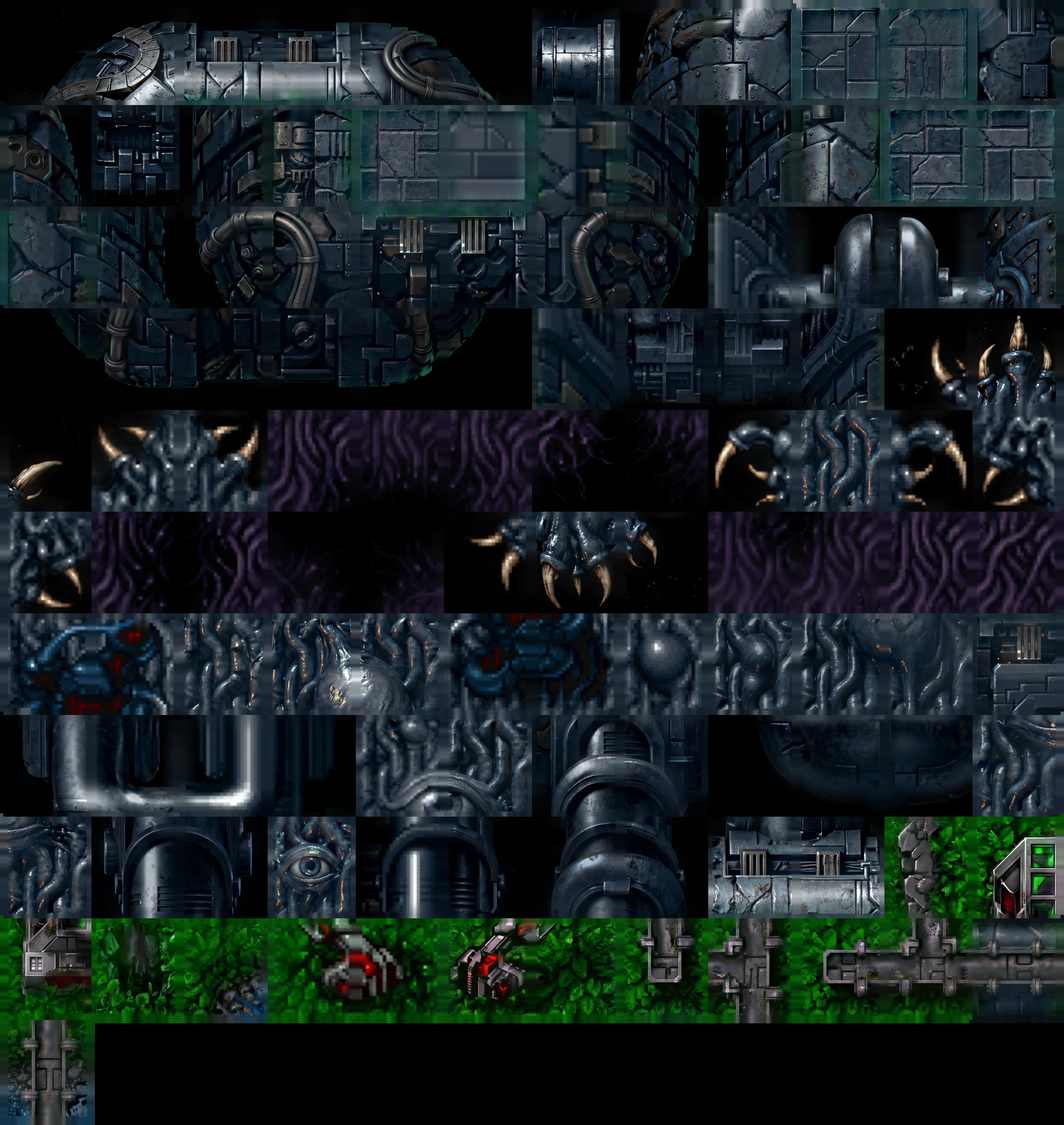
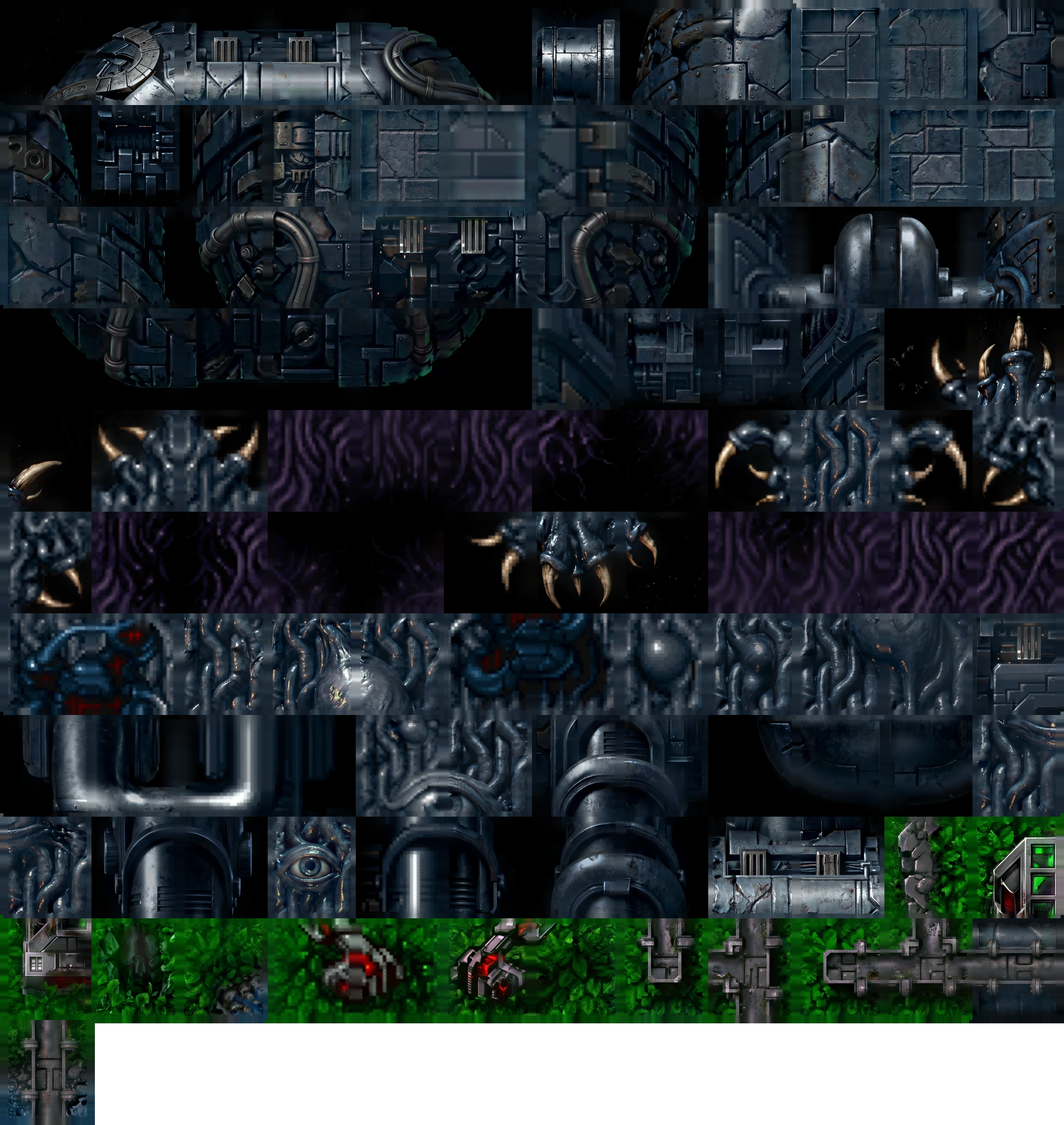
D113: take the teal rim off shapesx's blue-grey plating tiles (terrain_hd.py rimfix)
The 2-6 green tint and 2-10 halo were in the atlas, not the shader: the cut's seam strips
gave every plating tile a greener ring. fix_rim lowers the rim's green to the plating's ratio.

Claude-Session: https://claude.ai/code/session_01Tt7ZcrN2zwvXKGRkJHtp1H

Changed region(s): [[0.0621, 0.9062, 1.0, 1.0]]

diff --git a/tools/terrain_hd.py b/tools/terrain_hd.py
@@ -51,6 +51,7 @@ shared by many levels (shapesz by 32), so every command takes a list of levels o
         a weak pull towards the tile's own painting, and each tile's border is moved onto its strips
         (the difference fades in over 40 texels, the outer 4 texels are the strip); --edge-aware leaves
         strips untied where the original has a real edge between the tiles.
+        `rimfix <tileset>` then takes the teal ring off blue-grey plating tiles (fix_rim, D113).
         The cut MERGES into the tileset's atlas (D83): every tile it already has is kept as it is (its
         image file untouched, its rect unchanged) and its strips are held, so the new tiles are solved
         against them; the new tiles are packed (16-aligned rects, 16 px edge-extended gutters) into new
@@ -1828,6 +1829,69 @@ def cmd_realpha(args) -> None:
             print(f"layer {layer}: alpha redone for {sum(n in done for n in ns)} tiles -> {out_dir / name}")
 
 
+RIM_FULL = 12  # texels at a tile's edge the rim correction applies to in full...
+RIM_FADE = 12  # ...and the texels it then fades out over
+RIM_RHO = 0.58  # where a blue-grey hull's green sits between its red and its blue (measured on the plating)
+
+
+def fix_rim(tile: np.ndarray, full: int = RIM_FULL, fade: int = RIM_FADE, rho: float = RIM_RHO) -> tuple[np.ndarray, float]:
+    """A teal rim off a blue-grey tile (D113). The cut's seam strips take the colours of the original's
+    edge pixels, a lighter cyan, so a tile of blue-grey plating comes out with a teal ring round it
+    (the rim is a stripe of the tile's own edge texels, where the plating's green sits at 0.8 of the
+    way from red to blue against 0.58 inside). Within `full` texels of the edge, fading over `fade`
+    more, the green is lowered to the plating's own ratio where it is above it; red and blue stay, so
+    the rim keeps its brightness. The same colour function everywhere, so two tiles whose edge
+    colours were one still meet in one. Returns (tile, the largest green change); a tile whose
+    interior isn't blue-leaning (jungle, rock, water) comes back as it was."""
+    h, w = tile.shape[:2]
+    inner = tile[24:h - 24, 24:w - 24, :3].reshape(-1, 3).mean(0)
+    if not inner[2] > inner[1] + 3 > inner[0] + 3:  # blue over green over red: plating
+        return tile, 0.0
+    yy, xx = np.mgrid[:h, :w]
+    depth = np.minimum(np.minimum(xx, w - 1 - xx), np.minimum(yy, h - 1 - yy)).astype(np.float32)
+    weight = np.clip(1 - (depth - full) / fade, 0, 1)
+    r, g, b = tile[..., 0], tile[..., 1], tile[..., 2]
+    target = r + rho * (b - r)
+    drop = weight * np.where(b > r, np.maximum(g - target, 0), 0)
+    out = tile.copy()
+    out[..., 1] = g - drop
+    return out, float(drop.max())
+
+
+def cmd_rimfix(args) -> None:
+    """Take the teal rim (fix_rim) off the blue-grey ground tiles of an atlas, in place: layer 0's
+    images are re-encoded at the same layout (quality 92 unless --lossless); the manifest is
+    untouched. --dry-run lists the tiles it would change."""
+    out_dir = Path(args.out) / args.tileset
+    man, atlas = load_tileset_art(out_dir)
+    if man is None:
+        raise SystemExit(f"no atlas in {out_dir}")
+    tiles = atlas.get(0, {})
+    lay = man["layers"]["0"]
+    done = {}
+    for n, t in sorted(tiles.items()):
+        fixed, change = fix_rim(t)
+        if change > 0.5:
+            done[n] = fixed
+    print(f"layer 0: {len(done)} of {len(tiles)} tiles have a teal rim: {' '.join(map(str, done))}")
+    if args.dry_run or not done:
+        return
+    by_image: dict[str, list[int]] = defaultdict(list)
+    for k, r in lay["tiles"].items():
+        by_image[r.get("image", lay["image"])].append(int(k))
+    for name, ns in sorted(by_image.items()):
+        if not any(n in done for n in ns):
+            continue
+        packed, rects = pack_atlas({n: done.get(n, tiles[n]) for n in ns}, 4)
+        want = {str(n): {k: v for k, v in lay["tiles"][str(n)].items() if k != "image"} for n in ns}
+        assert rects == want, f"atlas layout changed ({name})"
+        img = Image.fromarray(packed.round().clip(0, 255).astype(np.uint8), "RGBA")
+        if name == lay["image"]:
+            assert (img.width, img.height) == (lay["width"], lay["height"]), f"atlas size changed ({name})"
+        save_atlas(img, out_dir / name, args.lossless)
+        print(f"layer 0: rim fixed for {sum(n in done for n in ns)} tiles -> {out_dir / name}")
+
+
 def cmd_cut(args) -> None:
     T = TilesetData(Path(args.data), level_list(args))
     work = Path(args.work)
@@ -2358,13 +2422,18 @@ def main(argv: list[str] | None = None) -> None:
                    "fixed neighbours in the seam solve (D89)")
     c.add_argument("--edge-free", type=float, default=EDGE_FREE, help=f"step between the original's facing pixels that still ties the strips fully (default {EDGE_FREE})")
     c.add_argument("--edge-full", type=float, default=EDGE_FULL, help=f"step from which it doesn't tie them at all (default {EDGE_FULL})")
+    rf = sub.add_parser("rimfix", help="take the teal rim off an atlas's blue-grey ground tiles (no answers needed)")
+    rf.add_argument("tileset", help="the tileset's folder name, e.g. shapesx")
+    rf.add_argument("--out", default=str(ROOT / "public/art/terrain"), help="atlas root (default public/art/terrain)")
+    rf.add_argument("--lossless", action="store_true", help="lossless WebP (default quality 92)")
+    rf.add_argument("--dry-run", action="store_true", help="only list the tiles it would change")
     k = sub.add_parser("check", help="reassemble the map from the atlas, measure seams")
     k.add_argument("--out", default=str(ROOT / "public/art/terrain"), help="atlas root (default public/art/terrain)")
     k.add_argument("--rows", type=int, default=12, help="map rows per contact sheet")
     k.add_argument("--contact", default="new", help="contact sheets: new (default: row blocks with a tile the last cut made; "
                    "every row block when nothing is new and at most 3 levels), all, none, or level ids (1-9,1-11)")
     args = ap.parse_args(argv)
-    {"inventory": cmd_inventory, "sheets": cmd_sheets, "fake": cmd_fake, "cut": cmd_cut, "realpha": cmd_realpha, "check": cmd_check}[args.cmd](args)
+    {"inventory": cmd_inventory, "sheets": cmd_sheets, "fake": cmd_fake, "cut": cmd_cut, "realpha": cmd_realpha, "rimfix": cmd_rimfix, "check": cmd_check}[args.cmd](args)
 
 
 if __name__ == "__main__":

diff --git a/tests/tools/terrain_hd_test.py b/tests/tools/terrain_hd_test.py
@@ -230,5 +230,40 @@ class StripTest(unittest.TestCase):
             np.testing.assert_array_equal(s1[k], s2[k])
 
 
+class RimFix(unittest.TestCase):
+    """fix_rim (D113): the teal ring the seam strips left on blue-grey plating."""
+
+    @staticmethod
+    def tile(inner, rim, w=192, h=224, rim_w=8):
+        a = np.zeros((h, w, 4), np.float32)
+        a[..., :3] = inner
+        a[..., 3] = 255
+        a[:rim_w] = a[-rim_w:] = a[:, :rim_w] = a[:, -rim_w:] = [*rim, 255]
+        return a
+
+    def test_teal_rim_goes_plating_blue(self):
+        t = self.tile([40, 54, 65], [41, 66, 73])
+        out, change = th.fix_rim(t)
+        self.assertGreater(change, 5)
+        r = out[0, 0, :3]
+        self.assertAlmostEqual(r[1], 41 + th.RIM_RHO * (73 - 41), delta=0.5)  # green at the plating's ratio
+        self.assertEqual((r[0], r[2]), (41, 73))  # red and blue stay
+        np.testing.assert_array_equal(out[24:-24, 24:-24], t[24:-24, 24:-24])  # the interior is untouched
+        again, change2 = th.fix_rim(out)
+        self.assertLess(change2, 0.5)  # and it settles
+
+    def test_other_materials_are_left_alone(self):
+        for inner, rim in (([30, 70, 25], [20, 90, 20]), ([90, 70, 50], [100, 90, 60])):  # jungle, rock
+            t = self.tile(inner, rim)
+            out, change = th.fix_rim(t)
+            self.assertEqual(change, 0.0)
+            np.testing.assert_array_equal(out, t)
+
+    def test_plating_with_a_plating_rim_is_unchanged(self):
+        t = self.tile([40, 54, 65], [44, 58, 70])
+        out, change = th.fix_rim(t)
+        self.assertLess(change, 0.5)
+
+
 if __name__ == "__main__":
     unittest.main()

diff --git a/DECISIONS.md b/DECISIONS.md
@@ -4440,8 +4440,23 @@ byte for byte, 121 new ground, 7 layer-1, 11 layer-2 (`0-2.webp`, `1.webp`, `2.w
   `tyrian-scratch/terrain-shapesx/captures/compare-2-1-r2.jpg`, `compare-2-10-r2.jpg`), 2-6 t1500 and 2-12 t900
   (`compare-2-6-2-12-r2.jpg`, original | HD). Forest, water, cliffs and hull slabs line up with the original; the repainted
   hull slabs on 2-10 are darker steel with a faint teal halo at their edges, and 2-6's central hull block shows a green
-  tint (cause not investigated). Left tiles show as the original beside them. terrainArt
+  tint (found and fixed below). Left tiles show as the original beside them. terrainArt
   and terrainHd tests pass. Not looked at: 2-2, 2-11, 4-13, `&dpr=0.3`, fallback with a tile removed.
+
+**The teal rim (found after round 2, fixed with `terrain_hd.py rimfix`):** the 2-6 tint and the 2-10 halo were one
+thing, and not a shader recolouring (`paletteTexture.ts` / `terrainMaterial.ts` of D111 changed nothing; with the
+whole palette path bypassed the tint stayed). The atlas itself had it: the seam strips (the outer 4 texels, solved
+across tile pairs) took the lighter cyan of the original's edge pixels, so every blue-grey plating tile carried an
+8-texel ring greener than its interior (green sits 0.78 of the way from red to blue in the ring, 0.56-0.60 inside:
+tile 12 edge [41,66,73] vs inside [40,54,65]). Tiled, the rings drew a teal grid, and the 2-6 block read as a green
+rectangle. `fix_rim` lowers the green to the plating's ratio (`RIM_RHO` 0.58) within 12 texels of the edge, fading
+over 12 more; red and blue stay, so the rim keeps its light. It is one colour function of the texel (two tiles that
+met in one edge colour still do) and runs only on tiles whose interior is blue over green over red (jungle, rock
+and water come back as they were). It changed 95 of the 191 ground tiles (82 in `0-2.webp`, 13 in `0.webp`),
+re-encoded at the same layout and quality 92; layers 1-2 don't have it. `tests/tools/terrain_hd_test.py` (RimFix).
+The same pass is worth running on a new tileset after its cut (`rimfix <tileset> --dry-run` lists the tiles).
+After: 2-6 t1500 and 2-10 t1200/t2400, original | HD, `tyrian-scratch/terrain-shapesx/captures/r3/compare-2-6-r3.jpg`,
+`compare-2-10-t1200-r3.jpg`, `compare-2-10-t2400-r3.jpg`: no tint, no halo.
 ## D111 — `shapes)` HD terrain: all 112 ground tiles and all 14 layer-1 rock tiles, from 16 Gemini sheets (two rounds)
 
 2026-11-04
